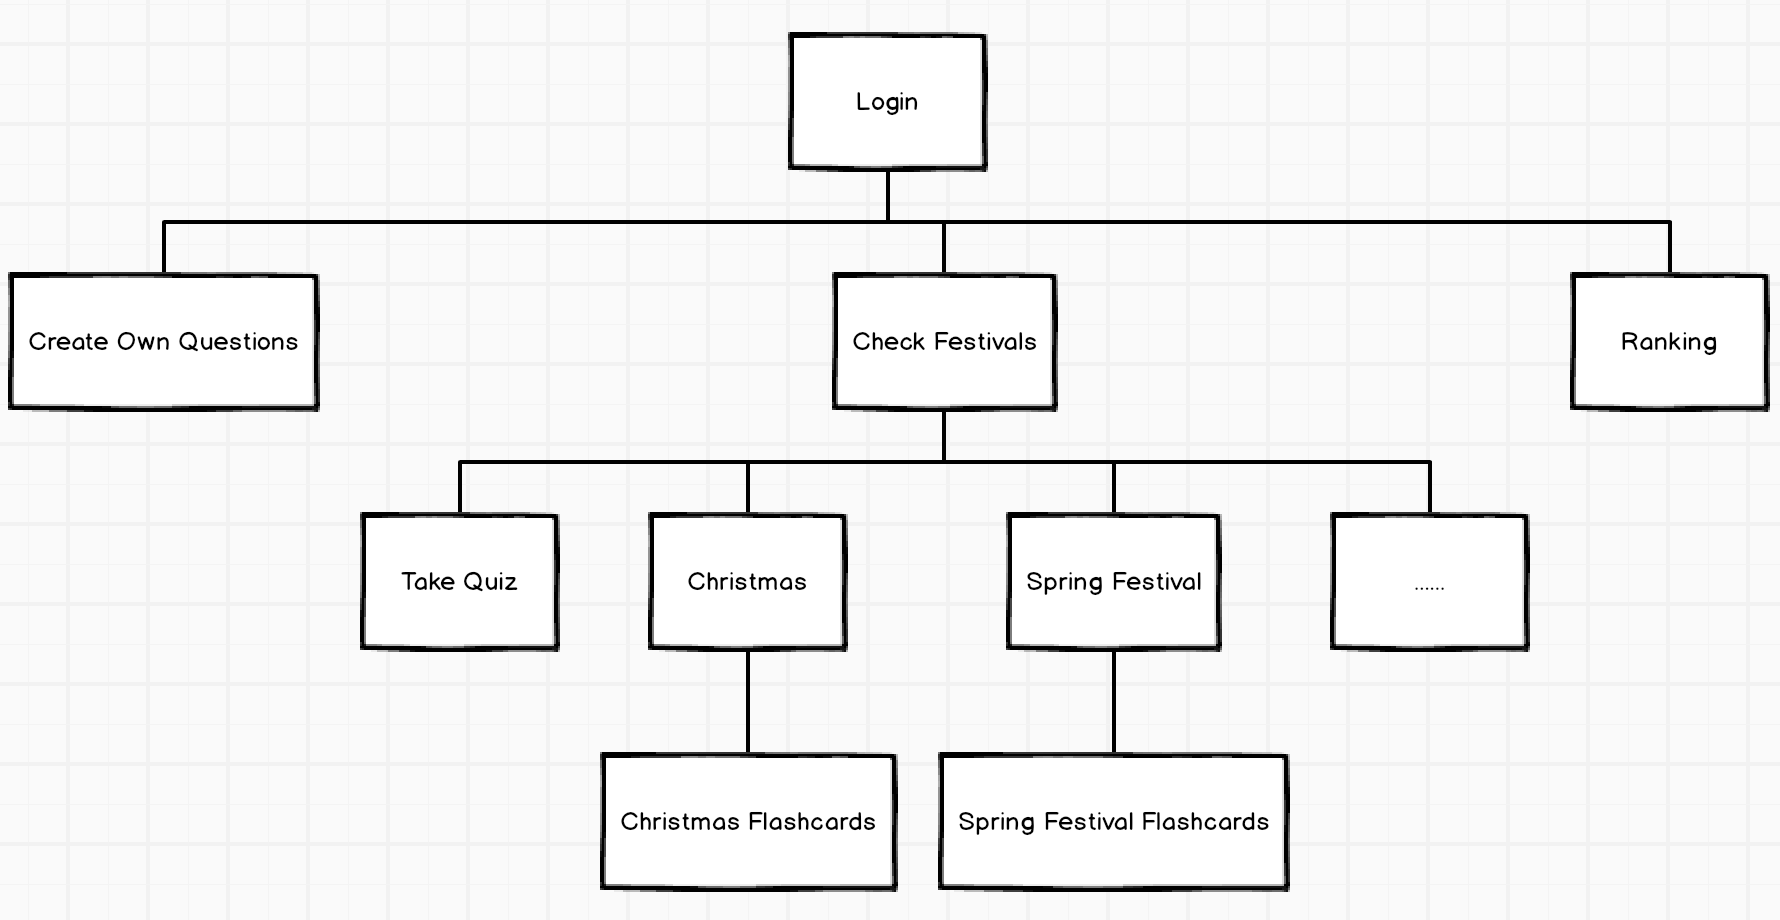
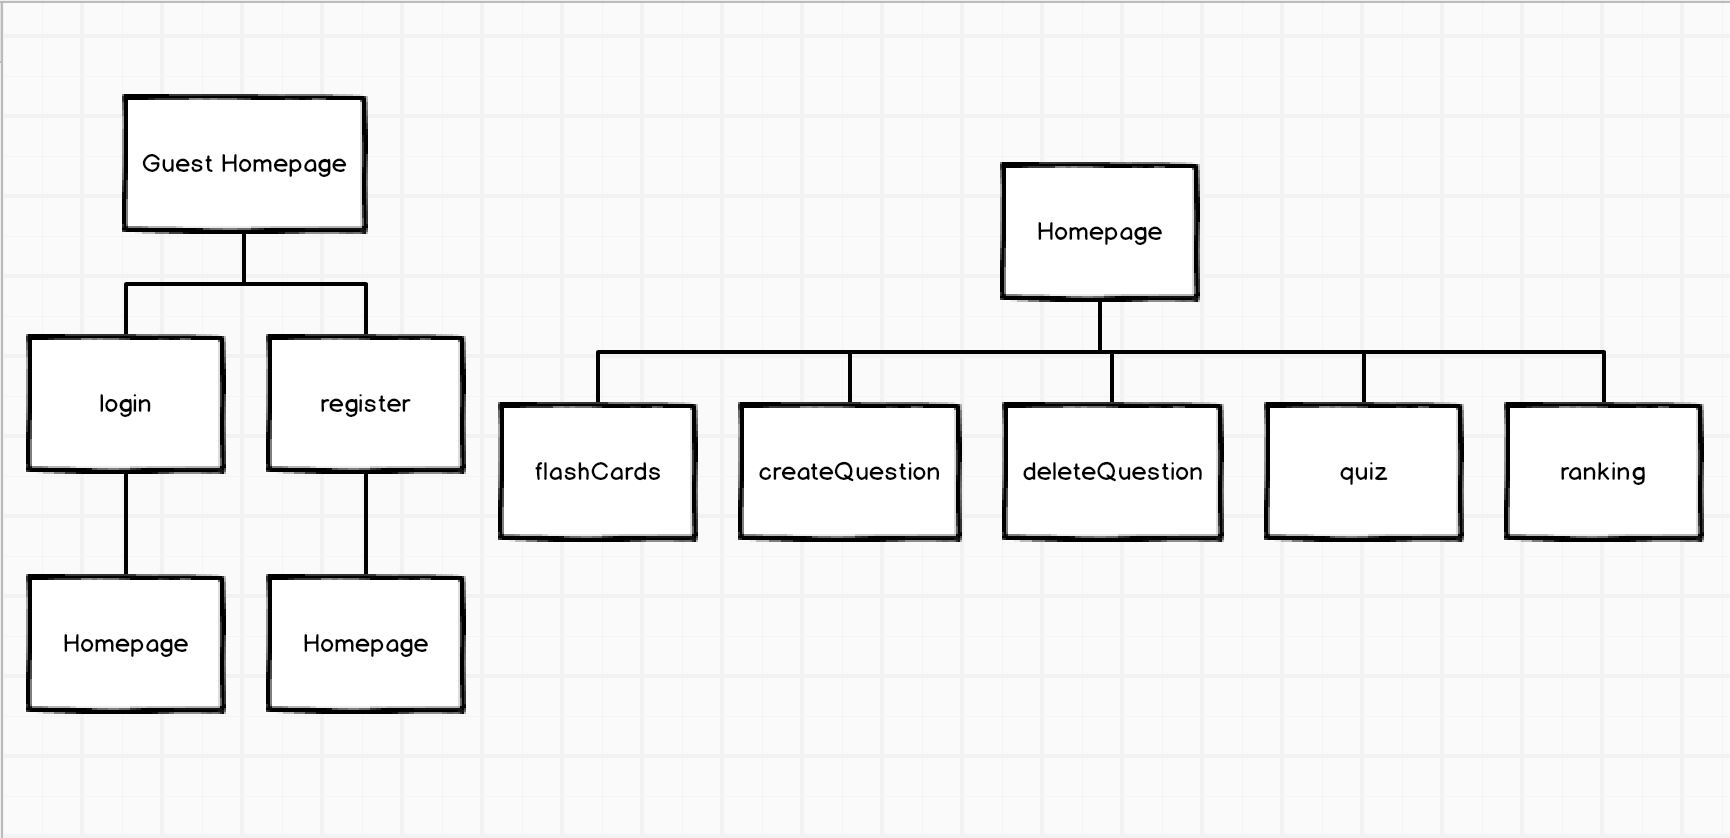
update documentation

diff --git a/db.js b/db.js
@@ -1,65 +1,6 @@
-// 1ST DRAFT DATA MODEL
+// DATABASE SETUP
 const mongoose = require('mongoose');
-// const URLSlugs = require('mongoose-url-slugs');
 
-// // users
-// // * our site requires authentication...
-// // * so users have a username and password
-// // * they also can have 0 or more questions created
-// // * as well as their own stats
-// const User = new mongoose.Schema({
-//   // username provided by authentication plugin
-//   // password hash provided by authentication plugin
-//   // lists: [{ type: mongoose.Schema.Types.ObjectId, ref: 'Question' }],
-//   // stats: [{ type: mongoose.Schema.Types.ObjectId, ref: 'Stat' }]
-//   local: {
-//       username: String,
-//       password: String
-//   },
-//   google: {
-//       id: String,
-//       token: String,
-//       email: String,
-//       name: String
-//   }
-// });
-
-// // a question
-// // * each question has a creator user
-// // * flashcard
-// // * blank position
-// const Question = new mongoose.Schema({
-//   createdBy: {type: mongoose.Schema.Types.ObjectId, ref:'User'},
-//   flashcard: {type: String, required: true},
-//   blank: Number
-// });
-
-// // a festival in the festival list
-// // * includes the name of the festival
-// // * embedded questions related to this festival
-// const Festival = new mongoose.Schema({
-//   name: {type: String, required: true},
-//   questions: [Question]
-// });
-
-// // a stats
-// // * each has accuracy field
-// // * number of questions created
-// // * number of quzzes took
-// // * reference to the user
-// const Stat = new mongoose.Schema({
-//     user: {type: mongoose.Schema.Types.ObjectId, ref:'User'},
-//     accurracy: Number,
-//     ownQuestion: Number,
-//     quiz: Number
-// });
-
-// // TODO: add remainder of setup for slugs, connection, registering models, etc. below
-// mongoose.model('User', User);
-// mongoose.model('Question', Question);
-// mongoose.model('Festival', Festival);
-// mongoose.model('Stat', Stat);
-// Festival.plugin(URLSlugs('name'));
 
 // is the environment variable, NODE_ENV, set to PRODUCTION? 
 if (process.env.NODE_ENV === 'PRODUCTION') {

diff --git a/README.md b/README.md
@@ -19,7 +19,7 @@ The application will store Users and Questions
 
 * users can create questions and modify them. 
 * each user has a stats recording his/her score (by embedding)
-* each question has a flahscard for viewing, a number indicating the gap index
+* each question has a flahscard for viewing, a number indicating the gap index and a key string.
 
 
 
@@ -46,8 +46,8 @@ An Example Question:
 ```
 
 
-## [Link to Commented First Draft Schema](db.js) 
-
+## [Link to User Schema](models/user.js)
+## [Link to Question Schema](models/question.js)
 
 
 ## Wireframes
@@ -58,21 +58,21 @@ An Example Question:
 
 ![list](documentation/login.png)
 
-/create question - page for user to create his question
+/flashcards - page for user to view existing flashcards
+
+![list](documentation/flashcards.png)
+
+/createQuestion - page for user to create his question
 
 ![list](documentation/createQuestion.png)
 
-/festivals - page for showing existing festivals, list of links to flashcards page related to that festival
+/deleteQuestion - page for user to delete existing questions
 
-![list](documentation/festivals.png)
+![list](documentation/deleteQuestion.png)
 
-/:festivalName - page for lists of flashcards to that specific festival 
+/quiz - page for user to take quizzes
 
-![list](documentation/christmas.png)
-
-/quizzes - page for user to take quizzes
-
-![list](documentation/quizzes.png)
+![list](documentation/quiz.png)
 
 /ranking - page for user to view ranking
 
@@ -91,7 +91,7 @@ The site map
 1. as non-registered user, I can register a new account with the site
 2. as a user, I can log in to the site
 3. as a user, I can create a new question relate to a specific festival
-4. as a user, I can view all of the existing flashcards in the database categorized by festivals
+4. as a user, I can view all of the existing flashcards in the database
 5. as a user, I can take quizzes made of questions in the database
 6. as a user, I can check the ranking list
 
@@ -101,13 +101,11 @@ The site map
 
 * (5 points) Integrate user authentication
     * I'm going to be using passport for user authentication
-    * see <code>cs.nyu.edu/undecided/ait-final/register</code> for register page
-    * see <code>cs.nyu.edu/undecided/ait-final/login</code> for login page
-    * path will be set up after instructor gives the individual port
+    * Local and Google Strategy will be used
 * (3 points) Unit testing with JavaScript
     * use Mocha for unit testing
-* (2 points) Use a CSS preprocesser
-    * use Sess as CSS preprocesser
+* (1-6 points) Use a Javascript library
+    * use compromise as NLP tool to help create a valid question
 
 
 
@@ -121,7 +119,8 @@ The site map
 
 
 1. [passport.js authentication docs](http://passportjs.org/docs)
-2. [tutorial on Mocha](https://github.com/mochajs/mocha)
-3. [tutorial on Sess](http://sass-lang.com/guide)
+2. [passport google authentication](https://github.com/BrentAureli/Youtube-Tutorials/tree/master/NodeJS%20Tutorials/Tutorial%2011%20-%20Google%20OAuth)
+3. [tutorial on Mocha](https://github.com/mochajs/mocha)
+4. [compromise docs](https://github.com/nlp-compromise/compromise)
 
 
